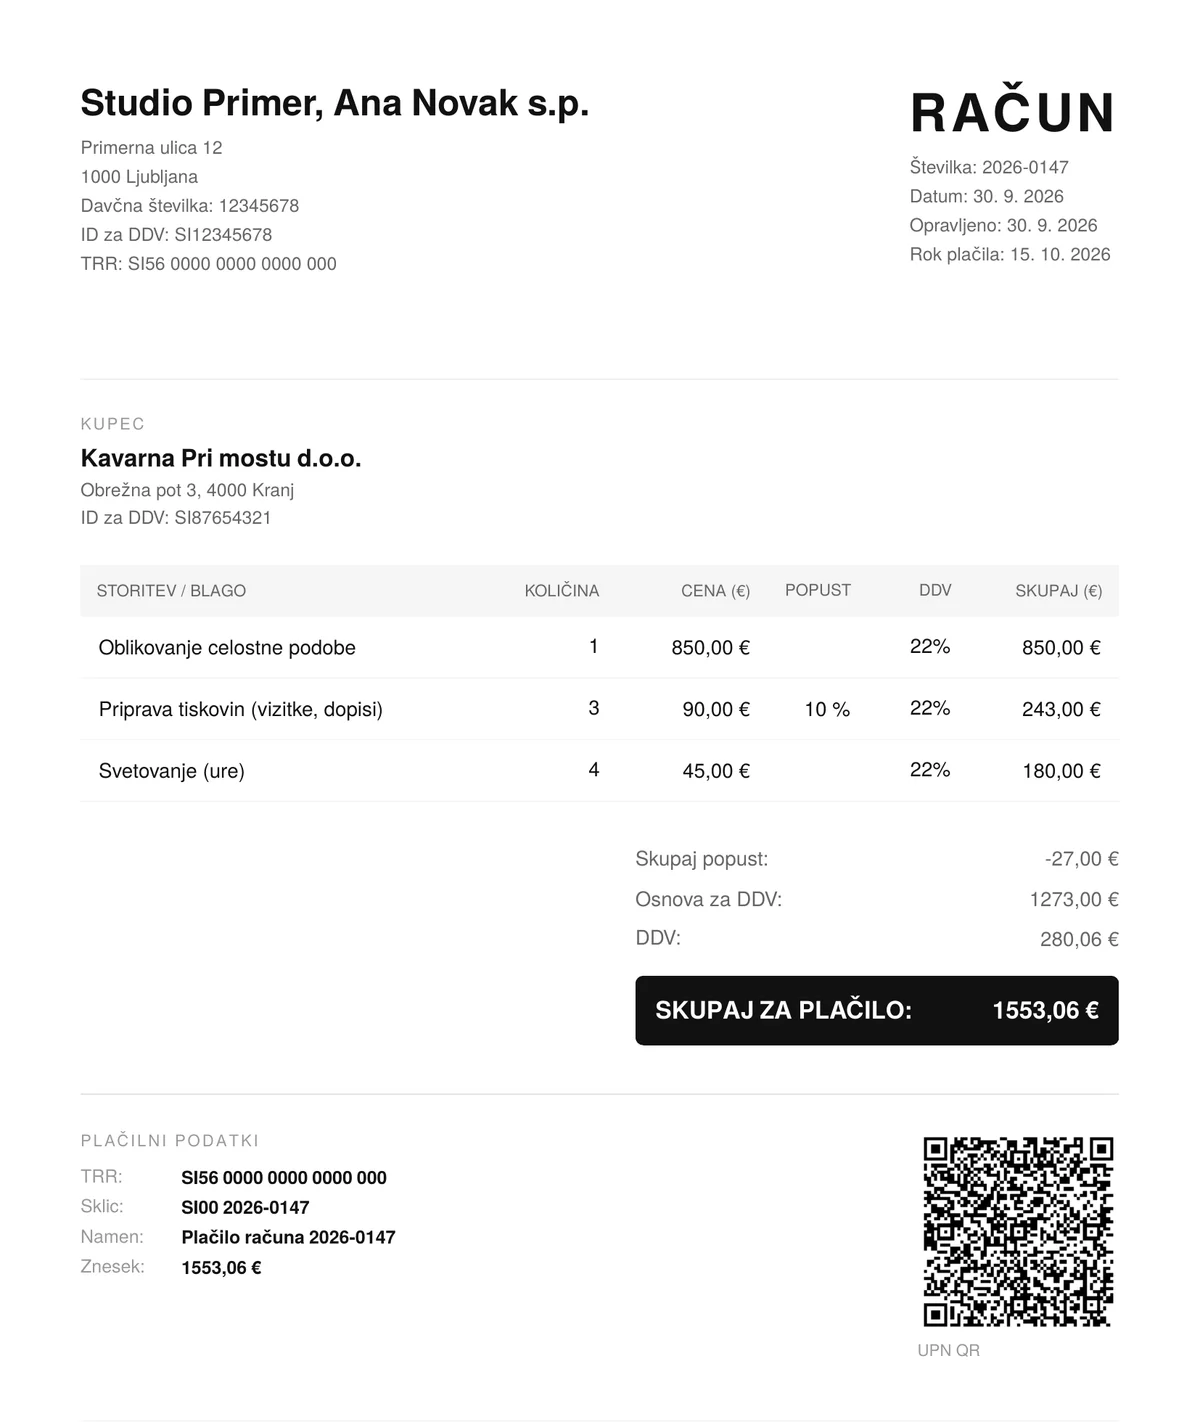
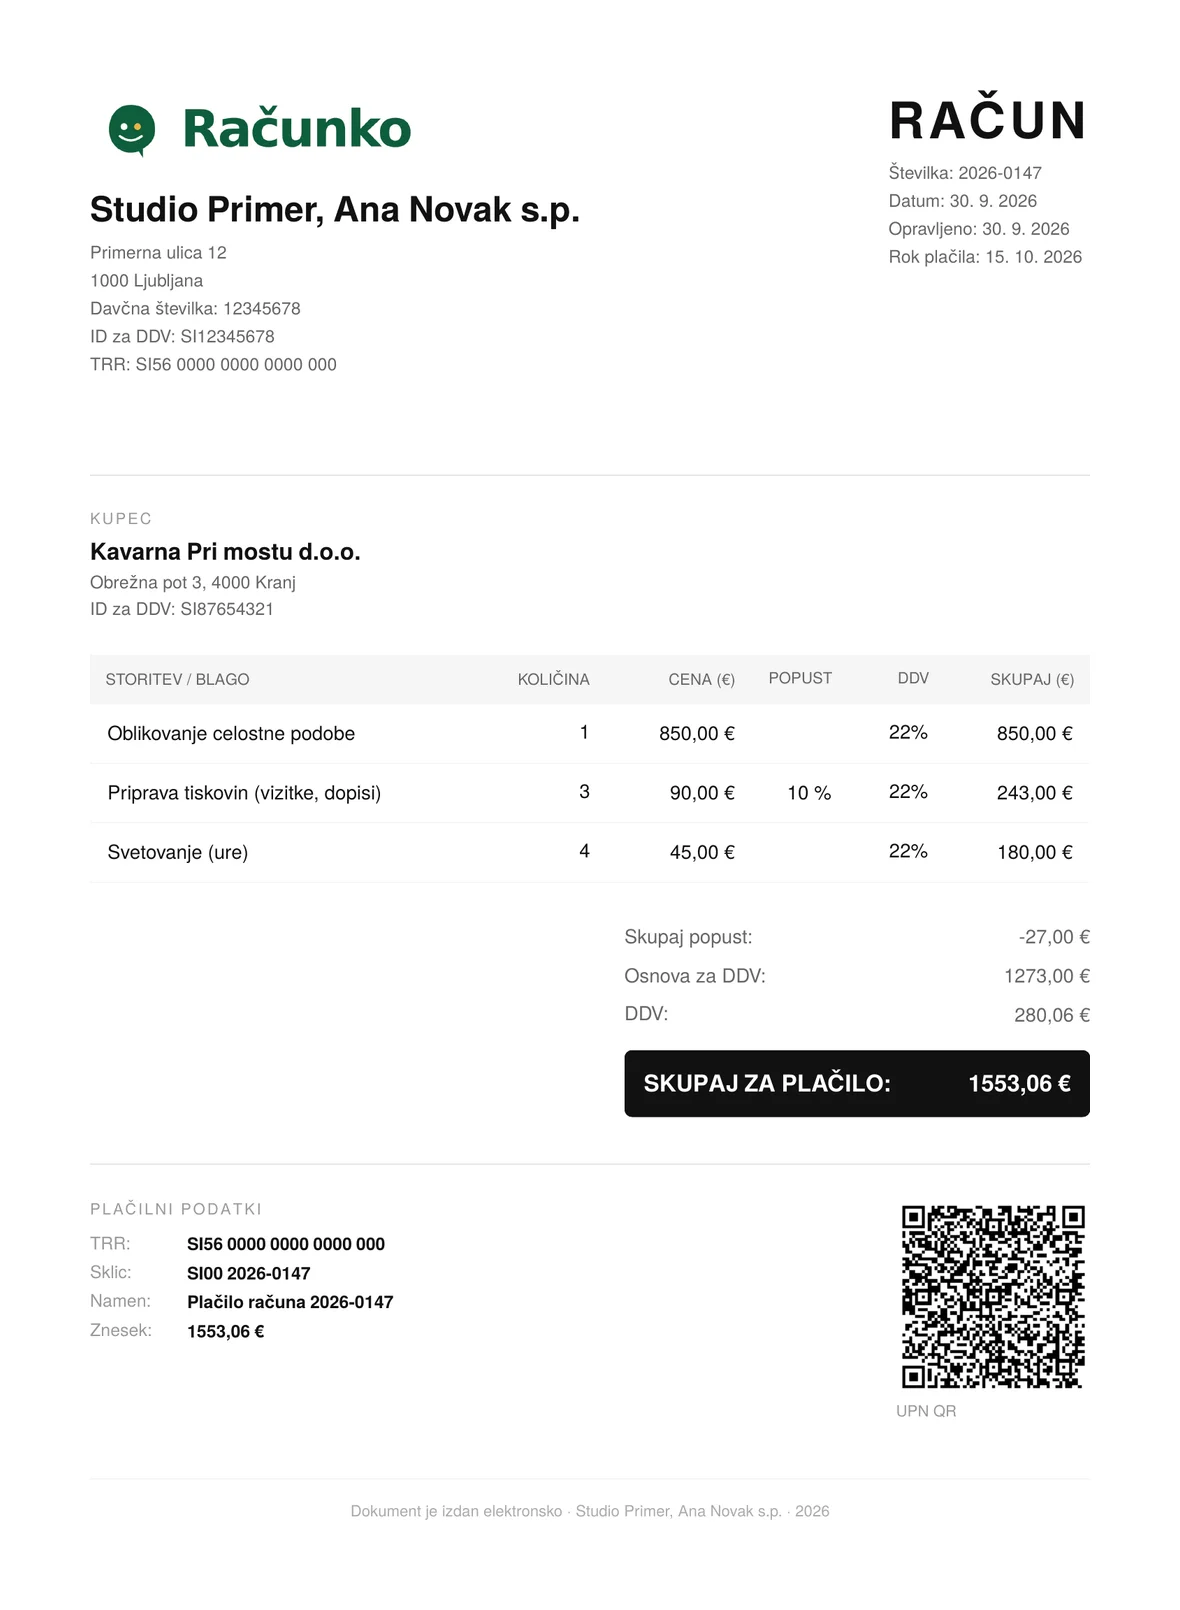
Prelet 344: landing — dva primera računov z logotipom (TRR z UPN QR in davčno potrjen z ZOI/EOR)
Claude-Session: https://claude.ai/code/session_012zMonTJrQyPTmYBDkfMryC

diff --git a/apps/web/components/landing/Funkcije.tsx b/apps/web/components/landing/Funkcije.tsx
@@ -26,11 +26,10 @@ const BLOKI: Blok[] = [
     naslov: racun.zdajMin != null ? `Račun izdate v ${formatCas(racun.zdajMin)}` : 'Račun izdate, preden stranka odide',
     opravilo: 'racun',
     besedilo: 'Izberete stranko in artikle. Račun je davčno potrjen pri FURS, stranka ga dobi po e-pošti.',
-    seznam: ['Potrditev pri FURS ob izdaji', 'UPN QR koda na vsakem PDF-u', 'e-račun v obliki e-SLOG 2.0', 'Ponavljajoči se računi in opomini'],
+    seznam: ['Potrditev pri FURS ob izdaji — ZOI, EOR in QR za preverjanje', 'UPN QR koda za plačilo na TRR', 'Vaš logotip na računu', 'e-račun v obliki e-SLOG 2.0', 'Ponavljajoči se računi in opomini'],
     // PRELET 343: pravi PDF iz predloge racuna (lib/invoice-pdf.tsx) z
     // izmisljenimi podatki - tak racun dobi stranka.
-    posnetek: 'racun', pot: '', vrsta: 'dokument',
-    alt: 'Primer računa, izdanega z Računkom: postavke s popustom, DDV, skupni znesek in UPN QR koda za plačilo',
+    posnetek: 'racun', pot: '', vrsta: 'dokument', alt: '',
   },
   {
     naslov: `Stroške fotografirate. Vnos naredi ${IME}.`,
@@ -95,10 +94,15 @@ export default function Funkcije() {
               <div className={s.funkcijaSlika}>
                 {b.vrsta === 'dokument' ? (
                   <>
-                    <div className={s.dokument}>
-                      <Posnetek ime={b.posnetek} okvir="brez" alt={b.alt} sizes="(max-width: 900px) 92vw, 560px" />
+                    <div className={s.dokumenti}>
+                      <div className={`${s.dokument} ${s.dokumentZadaj}`}>
+                        <Posnetek ime="racun" okvir="brez" alt="Primer računa za plačilo na TRR: postavke s popustom, DDV in UPN QR koda" sizes="(max-width: 900px) 64vw, 360px" />
+                      </div>
+                      <div className={`${s.dokument} ${s.dokumentSpredaj}`}>
+                        <Posnetek ime="racun-furs" okvir="brez" alt="Primer davčno potrjenega računa z ZOI, EOR in kodo QR za preverjanje pri FURS" sizes="(max-width: 900px) 64vw, 360px" />
+                      </div>
                     </div>
-                    <p className={s.dokumentNapis}>Primer računa z izmišljenimi podatki — PDF, ki ga dobi vaša stranka.</p>
+                    <p className={s.dokumentNapis}>Primera računov z izmišljenimi podatki — za plačilo na TRR z UPN QR in davčno potrjen z ZOI in EOR.</p>
                   </>
                 ) : b.vrsta === 'skener' ? (
                   <div className={s.skener}>

diff --git a/apps/web/components/landing/landing.module.css b/apps/web/components/landing/landing.module.css
@@ -826,3 +826,17 @@
 }
 .telefonZaslon .brezPosnetka { aspect-ratio: 390 / 844; font-size: .72rem; padding: 12px; }
 .brezPosnetka { background: repeating-linear-gradient(45deg, #F4F7F4 0 12px, #ECF1ED 12px 24px); }
+.dokumenti {
+  position: relative;
+  max-width: 540px;
+  margin: 0 auto;
+  padding: 0 0 30% 0;
+}
+.dokumentZadaj { width: 70%; transform: rotate(-4deg); }
+.dokumentSpredaj {
+  position: absolute;
+  right: 0;
+  top: 16%;
+  width: 70%;
+  transform: rotate(2.5deg);
+}
